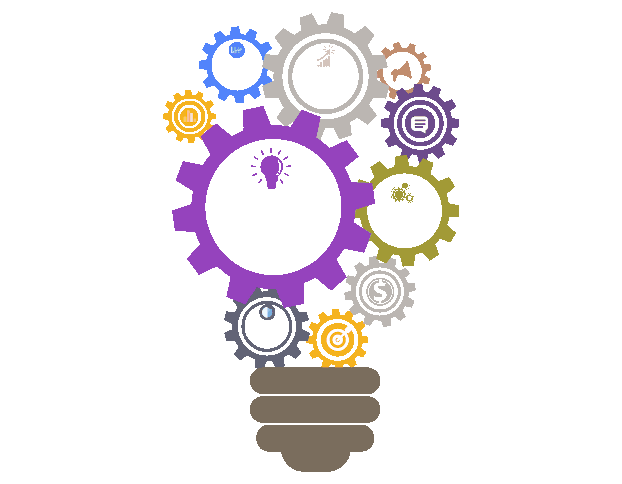
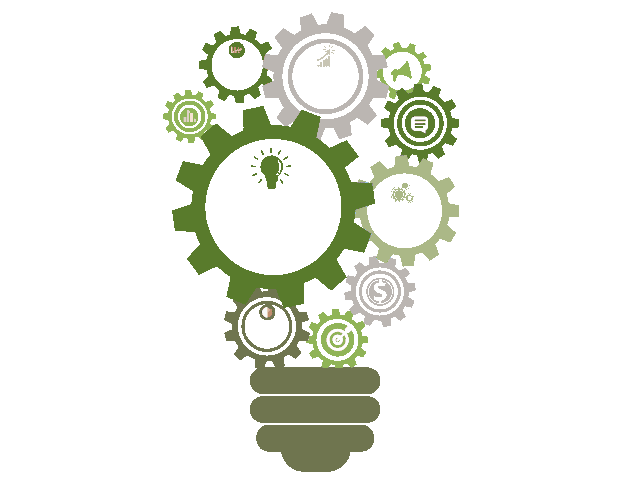
Changing colors.

Changed region(s): [[0.2444, 0.062, 0.7331, 0.7748]]

diff --git a/public/contact.html b/public/contact.html
@@ -58,9 +58,9 @@
                     <div class="collapse navbar-collapse" id="navbarSupportedContent">
                         <div class="menu-top-menu-container">
                             <ul id="top-menu" class="navbar-nav ml-auto">
-                                <li class="menu-item "><a href="index.html" aria-current="page">Home</a></li>
+                                <li class="menu-item"><a href="index.html" aria-current="page">Home</a></li>
                                 <li class="menu-item current-menu-item">
-                                <li class="menu-item current-menu-item"><a href="about.html">About</a></li>
+                                <li class="menu-item"><a href="about.html">About</a></li>
                                 <!-- <li class="menu-item"><a href="services.html">Services</a></li> -->
                                 <li class="menu-item"><a href="team.html">Team</a></li>
                                 <li class="menu-item">
@@ -76,6 +76,7 @@
     </div>
 </header>
 <!-- Header end -->
+
 <div class="main-content">
     <section class="iq-breadcrumb-five main-bg iq-bg-primary">
         <div class="container">
@@ -141,38 +142,45 @@
                         </div>
                     </div>
                 </div>
-            <div class="row iq-pt-100">
-                <div class="col-sm-12 col-lg-8 col-md-8 offset-lg-2 offset-md-2">
-                    <h2 class="text-center">Contact</h2>
-                    <p class="text-center">Leave us a message! We will contact you as soon as possible.</p>
+                <div class="row iq-pt-100">
+                    <div class="col-sm-12 col-lg-8 col-md-8 offset-lg-2 offset-md-2">
+                        <h2 class="text-center">Contact</h2>
+                        <p class="text-center">Leave us a message! We will contact you as soon as possible.</p>
 
-                    <div class="row mb-4">
-                        <div class="col-md-6">
-                            <label>Your Name (required)</label>
-                            <input type="text" name="your-name" value="" class="form-control validates-as-required" aria-required="true" aria-invalid="false">
+                        <div class="row mb-4">
+                            <div class="col-md-6">
+                                <label>Your Name (required)</label>
+                                <input type="text" name="your-name" value="" class="form-control validates-as-required"
+                                       aria-required="true" aria-invalid="false">
+                            </div>
+                            <div class="col-md-6">
+                                <label>Your Email (required)</label>
+                                <input type="email" name="your-email" value=""
+                                       class="form-control validates-as-required" aria-required="true"
+                                       aria-invalid="false">
+                            </div>
                         </div>
-                        <div class="col-md-6">
-                            <label>Your Email (required)</label>
-                            <input type="email" name="your-email" value="" class="form-control validates-as-required" aria-required="true" aria-invalid="false">
+                        <div class="row mb-4">
+                            <div class="col-md-12">
+                                <label>Subject</label>
+                                <input type="text" name="your-subject" value=""
+                                       class="form-control validates-as-required" aria-required="true"
+                                       aria-invalid="false">
+                            </div>
                         </div>
-                    </div>
-                    <div class="row mb-4">
-                        <div class="col-md-12">
-                            <label>Subject</label>
-                            <input type="text" name="your-subject" value="" class="form-control validates-as-required" aria-required="true" aria-invalid="false">
+                        <div class="row mb-4">
+                            <div class="col-md-12">
+                                <label>Your Message</label>
+                                <textarea name="your-message" class="wpcf7-form-control wpcf7-textarea"
+                                          aria-invalid="false" spellcheck="false"></textarea>
+                            </div>
                         </div>
-                    </div>
-                    <div class="row mb-4">
-                        <div class="col-md-12">
-                            <label>Your Message</label>
-                            <textarea name="your-message" class="wpcf7-form-control wpcf7-textarea" aria-invalid="false" spellcheck="false"></textarea>
-                        </div>
-                    </div>
 
-                    <div class="row">
-                        <div class="col-xl-12">
-                            <input type="submit" value="Send message" class="wpcf7-form-control wpcf7-submit">
-                            <span class="ajax-loader"></span>
+                        <div class="row">
+                            <div class="col-xl-12">
+                                <input type="submit" value="Send message" class="wpcf7-form-control wpcf7-submit">
+                                <span class="ajax-loader"></span>
+                            </div>
                         </div>
                     </div>
                 </div>

diff --git a/public/index.html b/public/index.html
@@ -52,20 +52,23 @@
                     <a class="navbar-brand" href="index.html">
                         <img class="img-fluid logo" src="assets/images/2019/12/logo-1.png" alt="vizion">
                     </a>
-                    <button class="navbar-toggler" type="button" data-toggle="collapse" data-target="#navbarSupportedContent" aria-controls="navbarSupportedContent" aria-expanded="false" aria-label="Toggle navigation">
+                    <button class="navbar-toggler" type="button" data-toggle="collapse"
+                            data-target="#navbarSupportedContent" aria-controls="navbarSupportedContent"
+                            aria-expanded="false" aria-label="Toggle navigation">
                         <span class="navbar-toggler-icon"></span>
                     </button>
                     <div class="collapse navbar-collapse" id="navbarSupportedContent">
                         <div class="menu-top-menu-container">
                             <ul id="top-menu" class="navbar-nav ml-auto">
-                                <li class="menu-item "><a href="index.html" aria-current="page">Home</a></li>
+                                <li class="menu-item"><a href="index.html" aria-current="page">Home</a></li>
                                 <li class="menu-item current-menu-item">
-                                <li class="menu-item current-menu-item"><a href="about.html">About</a></li>
+                                <li class="menu-item"><a href="about.html">About</a></li>
                                 <!-- <li class="menu-item"><a href="services.html">Services</a></li> -->
                                 <li class="menu-item"><a href="team.html">Team</a></li>
                                 <li class="menu-item">
                                     <i class="fa fa-angle-down toggledrop" aria-hidden="true"></i>
                                 <li class="menu-item"><a href="contact.html">Contact</a></li>
+                                </li>
                             </ul>
                         </div>
                     </div>

diff --git a/public/assets/css/custom.css b/public/assets/css/custom.css
@@ -79,7 +79,7 @@ footer.manufacturing .iq-contact li a:hover,
 footer.manufacturing input[type=submit],
 header.header4 .navbar ul li.current-menu-item a,
 .owl-carousel.left.our-testimonial .item.image-left .iq-testimon-detail:after {
-    color: rgb(0,128,0);
+    color: rgb(0, 128, 0);
 }
 
 .iq-challange-box a,
@@ -247,6 +247,10 @@ header.header-with-searchbar .navbar-light .navbar-nav .menu-item a::before {
     background: #008000;
 }
 
+.navbar-nav2 {
+    background: #cb4e34;
+}
+
 *::-moz-selection {
     background: rgba(69,116,188,1);
 }
@@ -260,14 +264,14 @@ header.header-with-searchbar .navbar-light .navbar-nav .menu-item a::before {
 }
 
 @media(max-width:992px) {
-    body header .navbar ul li.current-menu-item a,
-    body header .navbar ul li a:hover,
+/*    body header .navbar ul li.current-menu-item a,
+    body header .navbar ul li a:hover,*/
     header .navbar-light .navbar-toggler {
         /*background: linear-gradient(to right, rgba(118,146,188,1) 0%, rgba(69,116,188,1) 100%);*/
         background: #008000;
     }
     header .navbar-light .navbar-toggler {
-        border-color: rgba(69,116,188,1) !important;
+        border-color: rgb(0, 45, 0) !important;
     }
 }
 
@@ -282,7 +286,7 @@ header.header-with-searchbar .navbar-light .navbar-nav .menu-item a::before {
 .iq-education-tab .nav-pills .nav-link.active,
 .iq-education-tab .nav-pills .show>.nav-link,
 .iq-education-tab .nav-pills .nav-link:hover {
-    box-shadow: 8.388px 12.436px 29px 0px rgba(255, 200, 0, 0.38) !important;
+    box-shadow: 8.388px 12.436px 29px 0px rgba(0, 128, 0, 0.20) !important;
 }
 
 .iq-background-overlay,
@@ -332,7 +336,7 @@ header.header-with-searchbar .login li:last-child a {
 
 .iq-team .iq-team-img::before,
 .owl-carousel .owl-nav i {
-    background: linear-gradient(0deg, rgba(69,116,188,1) 0%, rgba(69,116,188,0) 100%);
+    /*background: linear-gradient(0deg, rgba(69,116,188,1) 0%, rgba(69,116,188,0) 100%);*/
     -webkit-transition: all 0.3s ease-out 0s;
     -moz-transition: all 0.3s ease-out 0s;
     -ms-transition: all 0.3s ease-out 0s;

diff --git a/public/services.html b/public/services.html
@@ -50,15 +50,17 @@
                     <a class="navbar-brand" href="index.html">
                         <img class="img-fluid logo" src="assets/images/2019/12/logo-1.png" alt="vizion">
                     </a>
-                    <button class="navbar-toggler" type="button" data-toggle="collapse" data-target="#navbarSupportedContent" aria-controls="navbarSupportedContent" aria-expanded="false" aria-label="Toggle navigation">
+                    <button class="navbar-toggler" type="button" data-toggle="collapse"
+                            data-target="#navbarSupportedContent" aria-controls="navbarSupportedContent"
+                            aria-expanded="false" aria-label="Toggle navigation">
                         <span class="navbar-toggler-icon"></span>
                     </button>
                     <div class="collapse navbar-collapse" id="navbarSupportedContent">
                         <div class="menu-top-menu-container">
                             <ul id="top-menu" class="navbar-nav ml-auto">
-                                <li class="menu-item "><a href="index.html" aria-current="page">Home</a></li>
+                                <li class="menu-item"><a href="index.html" aria-current="page">Home</a></li>
                                 <li class="menu-item current-menu-item">
-                                <li class="menu-item current-menu-item"><a href="about.html">About</a></li>
+                                <li class="menu-item"><a href="about.html">About</a></li>
                                 <!-- <li class="menu-item"><a href="services.html">Services</a></li> -->
                                 <li class="menu-item"><a href="team.html">Team</a></li>
                                 <li class="menu-item">

diff --git a/public/assets/css/vizion-style.css b/public/assets/css/vizion-style.css
@@ -136,7 +136,7 @@ Clearing floats
 /*---------------------------------------------------------------------
 Back to Top
 -----------------------------------------------------------------------*/
-#back-to-top .top { z-index: 999; position: fixed; margin: 0px; color: #ffffff; background: #333333; position: fixed; bottom: 90px; right: 25px; z-index: 999; font-size: 26px; width: 50px; height: 50px; text-align: center; line-height: 50px; border-radius: 90px; -webkit-transition: all .3s ease-in-out; -moz-transition: all .3s ease-in-out; transition: all .3s ease-in-out; }
+#back-to-top .top { z-index: 999; position: fixed; margin: 0px; color: #ffffff; background: #008000; position: fixed; bottom: 90px; right: 25px; z-index: 999; font-size: 26px; width: 50px; height: 50px; text-align: center; line-height: 50px; border-radius: 90px; -webkit-transition: all .3s ease-in-out; -moz-transition: all .3s ease-in-out; transition: all .3s ease-in-out; }
 #back-to-top .top:hover { background: #46c894; color: #ffffff; -webkit-box-shadow: 0px 0px 30px 0px rgba(0, 0, 0, 0.05); -moz-box-shadow: 0px 0px 30px 0px rgba(0, 0, 0, 0.05); box-shadow: 0px 0px 30px 0px rgba(0, 0, 0, 0.05); }
 /*---------------------------------------------------------------------
 Loader
@@ -2154,9 +2154,9 @@ footer.education .social-icone ul li a{display: block;
     line-height: 45px;
     font-size: 16px;
     color: #ffffff;
-    background: #093c60;
+    background: #52ec08;
     text-align: center;
-    border: 1px solid transparent;
+    border: 2px solid green;
     border-radius: 50%;}
 /*---------------------------------------------------------------------
 Manufacturing-Footer

diff --git a/public/about.html b/public/about.html
@@ -59,9 +59,9 @@
                     <div class="collapse navbar-collapse" id="navbarSupportedContent">
                         <div class="menu-top-menu-container">
                             <ul id="top-menu" class="navbar-nav ml-auto">
-                                <li class="menu-item "><a href="index.html" aria-current="page">Home</a></li>
+                                <li class="menu-item"><a href="index.html" aria-current="page">Home</a></li>
                                 <li class="menu-item current-menu-item">
-                                <li class="menu-item current-menu-item"><a href="about.html">About</a></li>
+                                <li class="menu-item"><a href="about.html">About</a></li>
                                 <!-- <li class="menu-item"><a href="services.html">Services</a></li> -->
                                 <li class="menu-item"><a href="team.html">Team</a></li>
                                 <li class="menu-item">

diff --git a/public/team.html b/public/team.html
@@ -57,9 +57,9 @@
                     <div class="collapse navbar-collapse" id="navbarSupportedContent">
                         <div class="menu-top-menu-container">
                             <ul id="top-menu" class="navbar-nav ml-auto">
-                                <li class="menu-item "><a href="index.html" aria-current="page">Home</a></li>
+                                <li class="menu-item"><a href="index.html" aria-current="page">Home</a></li>
                                 <li class="menu-item current-menu-item">
-                                <li class="menu-item current-menu-item"><a href="about.html">About</a></li>
+                                <li class="menu-item"><a href="about.html">About</a></li>
                                 <!-- <li class="menu-item"><a href="services.html">Services</a></li> -->
                                 <li class="menu-item"><a href="team.html">Team</a></li>
                                 <li class="menu-item">

diff --git a/public/assets/css/responsive.css b/public/assets/css/responsive.css
@@ -319,7 +319,7 @@
 	header .navbar ul li .sub-menu li:hover>.sub-menu { width: 100%; background: #333333; position: relative; left: 0; box-shadow: none; padding: 0 }
 	header .navbar ul li .sub-menu li i:before { content: "\f107" }
 	header .navbar ul li a:before { display: none }
-	header .navbar ul li.current-menu-item a, header .navbar ul li a:hover { background: #46c894 }
+	header .navbar ul li.current-menu-item a, header .navbar ul li a:hover { background: #d9f2d9 }
 	.widget_calendar .calendar_wrap table th, .widget_calendar .calendar_wrap table td { padding: 5px }
 	.future-services { padding: 30px 15px }
 	.iq-breadcrumb .title { font-size: 38px }
